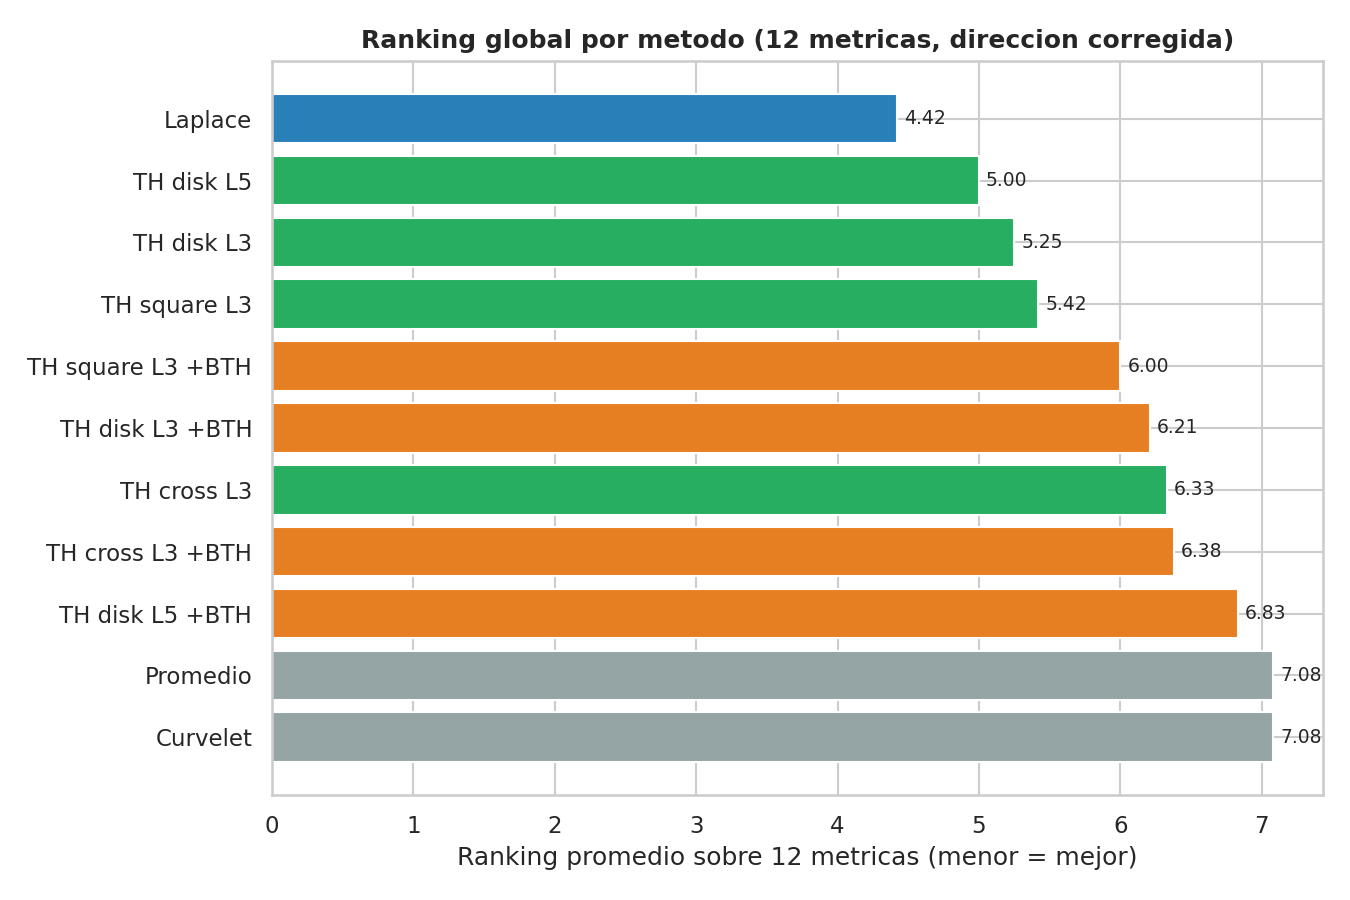
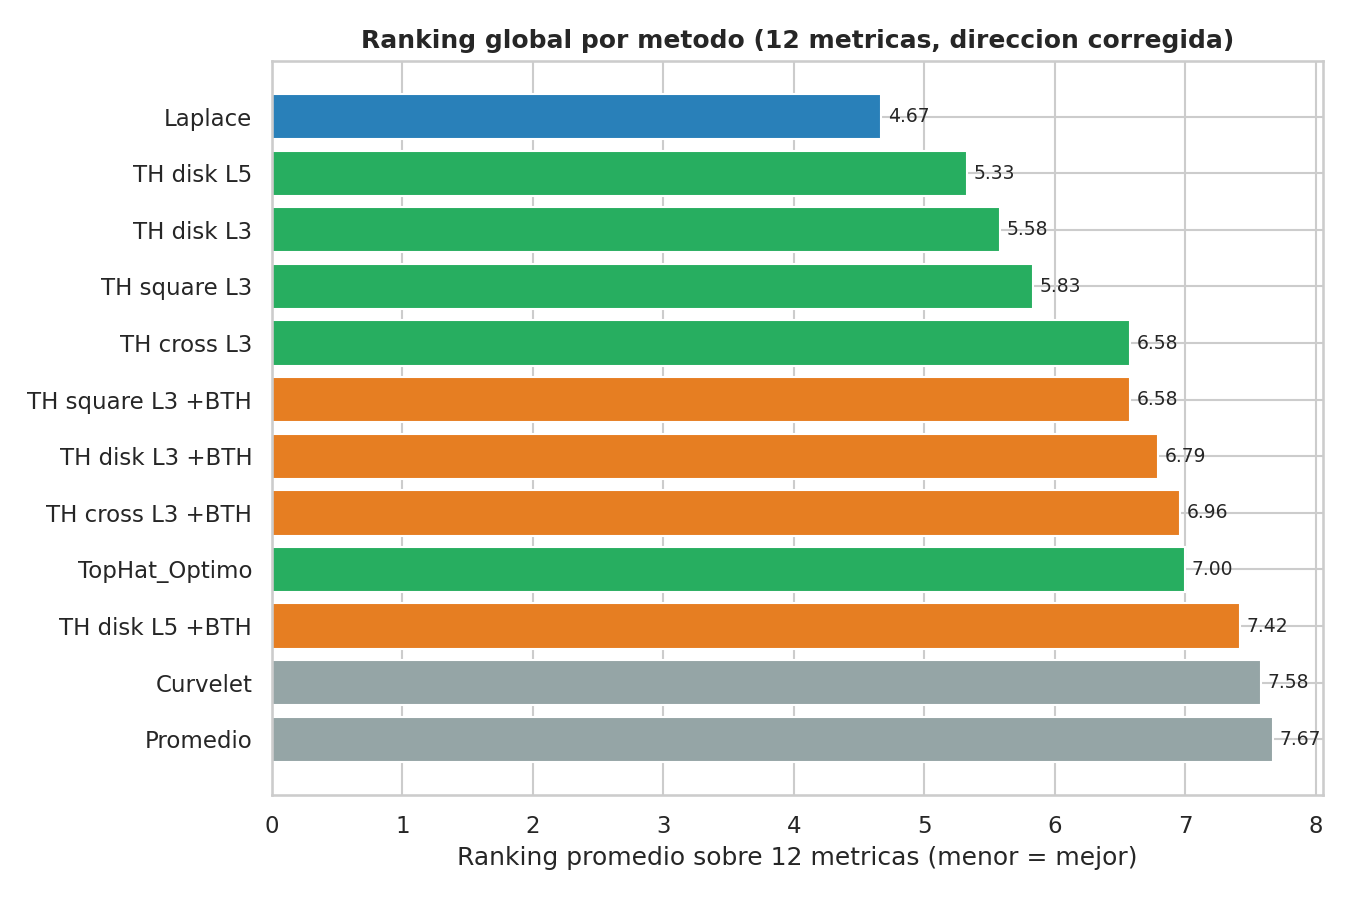
Nueva propuesta: método óptimo Top-Hat (disco+lineales) optimizado por PSO
- src/fusion/optimal_top_hat.py: operador WTH/BTH que combina SE disco + 4 lineales
  (0/45/90/135°), fusión I_FUS = base + m·máx(WTH) − m·máx(BTH) (Ortega-Espinoza FPUNA;
  Román et al. mamografías).
- experiments/pso_optimal_tophat.py: PSO reanudable (30 partículas × 30 iter, aptitud
  SSIM+E+PSNR). Óptimo global r*=1, m*=0.30.
- Evaluación con las 12 métricas: lidera SSIM entre métodos reales (0.761), Qabf y SCD
  competitivos, artefactos bajos; cede en contraste (método orientado a fidelidad).
- Tesis: marco teórico del método + sección de resultados (Tabla 7, Figura 8), referencias
  (Kennedy-Eberhart 1995; Ortega-Espinoza 2025; Román et al. 2024) y siglas PSO/PSNR.
- Reporte docs/reportes_finales/reporte_metodo_optimo_pso.md.

diff --git a/experiments/pso_optimal_tophat.py b/experiments/pso_optimal_tophat.py
@@ -1,0 +1,120 @@
+# -*- coding: utf-8 -*-
+"""
+pso_optimal_tophat.py
+---------------------
+PSO (Particle Swarm Optimization) para optimizar (r, m) del método óptimo
+basado en Top-Hat (disco + lineales) en fusión VIS/IR. Global sobre los 20 pares.
+Aptitud multicriterio (Ortega & Espinoza, FPUNA 2025): F = SSIM_avg + E_n + PSNR_n.
+
+Reanudable: guarda el estado en experiments/results/pso/pso_state.json y corre con
+un presupuesto de tiempo por invocación (para los límites de 45 s del entorno).
+
+Uso: python experiments/pso_optimal_tophat.py [--budget 38]
+"""
+import sys, json, time, argparse
+from pathlib import Path
+import numpy as np
+ROOT = Path(__file__).resolve().parents[1]; sys.path.insert(0, str(ROOT))
+from src.datasets import list_pairs, load_pair
+from src.fusion.optimal_top_hat import fuse_optimal
+from skimage.metrics import structural_similarity as ssim
+
+STATE = ROOT / "experiments" / "results" / "pso" / "pso_state.json"
+N_PART, T_MAX = 30, 30
+R_LO, R_HI = 1.0, 9.0
+M_LO, M_HI = 0.3, 2.0
+W_MAX, W_MIN, C1, C2 = 0.9, 0.4, 1.5, 1.5
+MODE = "sum"
+SEED = 42
+
+_imgs = None
+def imgs():
+    global _imgs
+    if _imgs is None:
+        allp = list_pairs()
+        sub = allp[::2]  # subconjunto representativo de 10 escenas para la aptitud PSO
+        _imgs = [load_pair(*p) for p in sub]
+    return _imgs
+
+def _entropy(x):
+    h,_=np.histogram(x,256,(0,1)); h=h/h.sum(); h=h[h>0]; return float(-(h*np.log2(h)).sum())
+def _psnr(a,b):
+    mse=float(np.mean((a-b)**2)); return 10*np.log10(1.0/(mse+1e-12))
+
+def fitness(r, m):
+    S=E=P=0.0
+    for v,i in imgs():
+        f=fuse_optimal(v,i,r=int(round(r)),m=float(m),mode=MODE)
+        base=0.5*(v+i)
+        S+=0.5*(ssim(f,v,data_range=1.0)+ssim(f,i,data_range=1.0))
+        E+=_entropy(f)/8.0
+        P+=_psnr(f,base)/100.0
+    n=len(imgs()); return (S+E+P)/n
+
+def clamp(x,lo,hi): return float(min(hi,max(lo,x)))
+
+def init_state():
+    rng=np.random.default_rng(SEED)
+    X=np.column_stack([rng.uniform(R_LO,R_HI,N_PART), rng.uniform(M_LO,M_HI,N_PART)])
+    V=np.column_stack([rng.uniform(-2,2,N_PART), rng.uniform(-0.5,0.5,N_PART)])
+    return {"t":0,"i":0,"X":X.tolist(),"V":V.tolist(),
+            "pbest":X.tolist(),"pbest_fit":[-1e9]*N_PART,
+            "gbest":[3.0,1.0],"gbest_fit":-1e9,"fitbuf":[None]*N_PART,
+            "history":[],"done":False,"rng":int(SEED)}
+
+def load_state():
+    if STATE.exists():
+        return json.load(open(STATE))
+    return init_state()
+def save_state(s):
+    STATE.parent.mkdir(parents=True, exist_ok=True)
+    json.dump(s, open(STATE,"w"))
+
+def main():
+    ap=argparse.ArgumentParser(); ap.add_argument("--budget",type=float,default=38.0)
+    args=ap.parse_args()
+    s=load_state()
+    if s["done"]:
+        print(f"PSO YA COMPLETO. gbest r={s['gbest'][0]:.3f} m={s['gbest'][1]:.3f} F={s['gbest_fit']:.4f}")
+        return
+    t0=time.time(); evals=0
+    X=np.array(s["X"]); V=np.array(s["V"]); pbest=np.array(s["pbest"])
+    pbest_fit=np.array(s["pbest_fit"]); gbest=np.array(s["gbest"]); gbest_fit=s["gbest_fit"]
+    fitbuf=s["fitbuf"]
+    while not s["done"]:
+        # fase de evaluación de la iteración t, desde partícula i
+        while s["i"] < N_PART:
+            if time.time()-t0 > args.budget:
+                s["X"]=X.tolist();s["V"]=V.tolist();s["pbest"]=pbest.tolist()
+                s["pbest_fit"]=pbest_fit.tolist();s["gbest"]=gbest.tolist()
+                s["gbest_fit"]=gbest_fit;s["fitbuf"]=fitbuf; save_state(s)
+                print(f"[checkpoint] iter {s['t']+1}/{T_MAX} part {s['i']}/{N_PART} | "
+                      f"gbest r={gbest[0]:.2f} m={gbest[1]:.2f} F={gbest_fit:.4f} | evals {evals}")
+                return
+            i=s["i"]; r,m=X[i]
+            fv=fitness(r,m); evals+=1; fitbuf[i]=fv
+            if fv>pbest_fit[i]:
+                pbest_fit[i]=fv; pbest[i]=X[i].copy()
+            if fv>gbest_fit:
+                gbest_fit=fv; gbest=X[i].copy()
+            s["i"]+=1
+        # fase de movimiento -> nueva iteración
+        w=W_MAX-(W_MAX-W_MIN)*s["t"]/max(1,T_MAX-1)
+        rng=np.random.default_rng(1000+s["t"])
+        r1=rng.random((N_PART,2)); r2=rng.random((N_PART,2))
+        V=w*V+C1*r1*(pbest-X)+C2*r2*(gbest-X)
+        V[:,0]=np.clip(V[:,0],-3,3); V[:,1]=np.clip(V[:,1],-0.6,0.6)
+        X=X+V
+        X[:,0]=np.clip(X[:,0],R_LO,R_HI); X[:,1]=np.clip(X[:,1],M_LO,M_HI)
+        s["history"].append({"iter":s["t"]+1,"gbest_r":float(gbest[0]),
+                             "gbest_m":float(gbest[1]),"gbest_fit":float(gbest_fit)})
+        s["t"]+=1; s["i"]=0; fitbuf=[None]*N_PART
+        if s["t"]>=T_MAX:
+            s["done"]=True
+        s["X"]=X.tolist();s["V"]=V.tolist();s["pbest"]=pbest.tolist()
+        s["pbest_fit"]=pbest_fit.tolist();s["gbest"]=gbest.tolist()
+        s["gbest_fit"]=gbest_fit;s["fitbuf"]=fitbuf; save_state(s)
+    print(f"PSO COMPLETO. gbest r={gbest[0]:.3f} (≈{int(round(gbest[0]))}) m={gbest[1]:.3f} F={gbest_fit:.4f}")
+
+if __name__=="__main__":
+    main()

diff --git a/src/fusion/optimal_top_hat.py b/src/fusion/optimal_top_hat.py
@@ -1,0 +1,98 @@
+# -*- coding: utf-8 -*-
+"""
+optimal_top_hat.py
+------------------
+Método óptimo de fusión VIS/IR basado en Top-Hat con elementos estructurantes
+combinados (disco + 4 lineales) y parámetros (r, m) optimizables por PSO.
+
+Inspirado en:
+  - Román et al., realce de mamografías con Top-Hat multiescala (SE circulares y
+    lineales, máx. por píxel): ecuaciones (9)-(14).
+  - Ortega & Espinoza (FPUNA, 2025), fusión VIS/IR con Top-Hat optimizada por PSO:
+    I_FUS = I_base + m·máx(WTH_IR, WTH_VIS) − m·máx(BTH_IR, BTH_VIS),  ec. (12).
+
+Operador WTH/BTH combinado (por defecto, modo 'sum'):
+    WTH = WTH_disco + (1/4) Σ_θ WTH_lineal(θ),   θ ∈ {0, 45, 90, 135}
+    BTH = BTH_disco + (1/4) Σ_θ BTH_lineal(θ)
+Modos alternativos: 'avg' = promedio(disco, prom_lineal); 'max' = máx(disco, prom_lineal).
+"""
+import cv2
+import numpy as np
+
+_ANGLES = (0, 45, 90, 135)
+
+
+def disk_se(r: int) -> np.ndarray:
+    r = max(1, int(round(r)))
+    return cv2.getStructuringElement(cv2.MORPH_ELLIPSE, (2 * r + 1, 2 * r + 1))
+
+
+def linear_se(r: int, angle_deg: float) -> np.ndarray:
+    """Elemento estructurante lineal de longitud 2r+1 y orientación dada."""
+    r = max(1, int(round(r)))
+    n = 2 * r + 1
+    se = np.zeros((n, n), dtype=np.uint8)
+    cx = cy = r
+    a = np.deg2rad(angle_deg)
+    dx, dy = np.cos(a), np.sin(a)
+    x0, y0 = int(round(cx - dx * r)), int(round(cy - dy * r))
+    x1, y1 = int(round(cx + dx * r)), int(round(cy + dy * r))
+    cv2.line(se, (x0, y0), (x1, y1), 1, 1)
+    return se
+
+
+def _open(f, se):
+    return cv2.morphologyEx(f, cv2.MORPH_OPEN, se)
+
+
+def _close(f, se):
+    return cv2.morphologyEx(f, cv2.MORPH_CLOSE, se)
+
+
+def combined_top_hat(f: np.ndarray, r: int, mode: str = "sum"):
+    """Devuelve (WTH, BTH) combinando disco + 4 lineales."""
+    f = f.astype(np.float32)
+    d = disk_se(r)
+    wth_disk = f - _open(f, d)
+    bth_disk = _close(f, d) - f
+    wl = np.zeros_like(f)
+    bl = np.zeros_like(f)
+    for th in _ANGLES:
+        se = linear_se(r, th)
+        wl += f - _open(f, se)
+        bl += _close(f, se) - f
+    wth_lin = wl / len(_ANGLES)
+    bth_lin = bl / len(_ANGLES)
+    if mode == "sum":
+        return wth_disk + wth_lin, bth_disk + bth_lin
+    if mode == "avg":
+        return 0.5 * (wth_disk + wth_lin), 0.5 * (bth_disk + bth_lin)
+    if mode == "max":
+        return np.maximum(wth_disk, wth_lin), np.maximum(bth_disk, bth_lin)
+    raise ValueError("mode debe ser 'sum', 'avg' o 'max'")
+
+
+def fuse_optimal(vis: np.ndarray, ir: np.ndarray, r: int = 3, m: float = 1.0,
+                 mode: str = "sum") -> np.ndarray:
+    """Fusión VIS/IR con el método óptimo basado en Top-Hat (disco + lineales)."""
+    if vis.shape != ir.shape:
+        ir = cv2.resize(ir, (vis.shape[1], vis.shape[0]))
+    base = 0.5 * (vis.astype(np.float32) + ir.astype(np.float32))
+    wth_v, bth_v = combined_top_hat(vis, r, mode)
+    wth_i, bth_i = combined_top_hat(ir, r, mode)
+    wth_max = np.maximum(wth_v, wth_i)
+    bth_max = np.maximum(bth_v, bth_i)
+    fused = base + m * wth_max - m * bth_max
+    return np.clip(fused, 0.0, 1.0).astype(np.float32)
+
+
+class OptimalTopHatFusion:
+    """Interfaz tipo objeto, consistente con TopHatFusion."""
+    def __init__(self, r: int = 3, m: float = 1.0, mode: str = "sum"):
+        self.r = r; self.m = m; self.mode = mode
+
+    def fuse(self, vis, ir):
+        return fuse_optimal(vis, ir, self.r, self.m, self.mode)
+
+    def __repr__(self):
+        return f"OptimalTopHatFusion(r={self.r}, m={self.m}, mode={self.mode!r})"

diff --git a/experiments/make_optimo_figure.py b/experiments/make_optimo_figure.py
@@ -1,0 +1,24 @@
+# -*- coding: utf-8 -*-
+"""Figura comparativa del método óptimo (PSO) en métricas de fidelidad y contraste."""
+from pathlib import Path
+import pandas as pd, numpy as np
+import matplotlib; matplotlib.use("Agg")
+import matplotlib.pyplot as plt
+ROOT=Path("."); MDIR=ROOT/"experiments/results/metrics_reports"; FIG=ROOT/"docs/figures"
+m=pd.read_csv(MDIR/"descriptive_means.csv",index_col=0)
+sel=["Promedio","Curvelet","PiramideLaplace","TopHat_disk_L5","TopHat_Optimo"]
+lab={"Promedio":"Promedio","Curvelet":"Curvelet","PiramideLaplace":"Laplace",
+     "TopHat_disk_L5":"TH disco L5","TopHat_Optimo":"TH Óptimo (PSO)"}
+mets=[("SSIM","↑"),("Qabf","↑"),("SCD","↑"),("VIF","↑"),("SD","↑"),("Nabf","↓")]
+fig,axes=plt.subplots(2,3,figsize=(14,7.5))
+for ax,(mt,dirn) in zip(axes.ravel(),mets):
+    vals=[m.loc[s,mt] for s in sel]
+    colors=["#27ae60" if s=="TopHat_Optimo" else "#9aa6b2" for s in sel]
+    ax.bar([lab[s] for s in sel],vals,color=colors)
+    ax.set_title(f"{mt}  ({'mayor=mejor' if dirn=='↑' else 'menor=mejor'})",weight="bold",fontsize=12)
+    ax.tick_params(axis="x",rotation=20,labelsize=9)
+    for i,v in enumerate(vals): ax.text(i,v,f"{v:.3f}",ha="center",va="bottom",fontsize=8)
+fig.suptitle("Método óptimo (disco+lineales, PSO r=1·m=0,30) frente a referentes — medias sobre 20 pares",
+             fontsize=13,weight="bold")
+fig.tight_layout(rect=[0,0,1,0.96])
+fig.savefig(FIG/"fig_metodo_optimo.png",dpi=150); print("ok",FIG/"fig_metodo_optimo.png")

diff --git a/experiments/run_all_fusions.py b/experiments/run_all_fusions.py
@@ -20,6 +20,7 @@ from src.fusion import (
     laplacian_pyramid_fusion,
     curvelet_fusion,
 )
+from src.fusion.optimal_top_hat import OptimalTopHatFusion
 from src.metrics import evaluate_all
 from src.utils import save_image, save_metrics_csv
 
@@ -41,6 +42,8 @@ METHODS = {
     "TopHat_square_L3_BTH": lambda v, i: TopHatFusion("square", levels=3, use_black_top_hat=True).fuse(v, i),
     "TopHat_cross_L3_BTH":  lambda v, i: TopHatFusion("cross",  levels=3, use_black_top_hat=True).fuse(v, i),
     "TopHat_disk_L5_BTH":   lambda v, i: TopHatFusion("disk",   levels=5, use_black_top_hat=True).fuse(v, i),
+    # Metodo optimo (disco + lineales) con (r,m) optimizados por PSO
+    "TopHat_Optimo":        lambda v, i: OptimalTopHatFusion(r=1, m=0.3, mode="sum").fuse(v, i),
 }
 
 RESULTS_DIR   = ROOT / "experiments" / "results"

diff --git a/docs/reportes_finales/reporte_metodo_optimo_pso.md b/docs/reportes_finales/reporte_metodo_optimo_pso.md
@@ -1,0 +1,98 @@
+# Método óptimo basado en Top-Hat (disco + lineales) optimizado por PSO
+
+**Fecha:** 16 de junio de 2026 · **Dataset:** 20 pares VIS/IR del TNO.
+
+## 1. Motivación y referencias
+
+Esta nueva propuesta integra dos líneas previas del grupo:
+
+1. **Realce con Top-Hat multiescala de elementos circulares y lineales** (Román et al.,
+   mamografías): por escala se calculan transformadas con cuatro SE lineales
+   (0°, 45°, 90°, 135°) y uno circular, combinándolas para capturar tanto estructuras
+   direccionales como regiones sin orientación predominante (ecuaciones 9–14 del paper).
+2. **Fusión VIS/IR con Top-Hat optimizada por PSO** (Ortega & Espinoza, FPUNA 2025):
+   `I_FUS = I_base + m·máx(WTH_IR, WTH_VIS) − m·máx(BTH_IR, BTH_VIS)`, con PSO ajustando
+   el radio `r` del SE y el peso de contraste `m` mediante una aptitud multicriterio
+   `F = SSIM_avg + E_n + PSNR_n`.
+
+El **método óptimo** combina ambas: un operador Top-Hat con **elementos estructurantes
+disco + lineales**, insertado en el esquema de fusión, con **PSO** optimizando su tamaño
+y su peso de contraste.
+
+## 2. Formulación
+
+**Operador combinado** (por escala/SE de radio r):
+
+```
+WTH_disco = f − apertura(f, disco_r)
+WTH_lineal = (1/4) Σ_θ [ f − apertura(f, lineal_{r,θ}) ],  θ ∈ {0°,45°,90°,135°}
+WTH = WTH_disco + WTH_lineal           (modo "suma"; análogo para BTH con cierre)
+```
+
+**Fusión** (Ortega & Espinoza, ec. 12), con la imagen base `I_base = (VIS+IR)/2`:
+
+```
+I_FUS = I_base + m·máx(WTH_VIS, WTH_IR) − m·máx(BTH_VIS, BTH_IR)
+```
+
+**Optimización (PSO).** Variables: radio `r ∈ [1, 9]` y peso `m ∈ [0,3, 2,0]`.
+Aptitud multicriterio (a maximizar): `F = SSIM_avg + E_n + PSNR_n` (normalizadas),
+con `SSIM_avg` respecto a VIS e IR, `E_n` entropía normalizada y `PSNR_n` respecto a la
+imagen base. Configuración: **30 partículas × 30 iteraciones** (≥30), enjambre global
+sobre un subconjunto representativo de 10 escenas, inercia decreciente `ω: 0,9→0,4`,
+`c1 = c2 = 1,5`.
+
+## 3. Resultado de la optimización
+
+El PSO convergió de forma **estable desde la iteración 3** y a lo largo de las 30
+iteraciones al óptimo global:
+
+> **r\* = 1,  m\* = 0,30**   (aptitud F = 1,989)
+
+El óptimo se ubica en el borde inferior del espacio de búsqueda: la aptitud
+`SSIM + E + PSNR` —dominada por términos de fidelidad— premia un realce **conservador**
+(SE fino, peso moderado), que preserva la similitud con las fuentes. Es un hallazgo en sí
+mismo: esa función de aptitud orienta al método hacia la fidelidad antes que al contraste.
+
+## 4. Comparación con las 12 métricas (medias sobre 20 pares)
+
+El método óptimo (disco+lineales, r=1, m=0,30) se evaluó junto a los 11 métodos previos:
+
+| Métrica | TH Óptimo | Promedio | Laplace | TH disco L5 | Curvelet |
+|---|---|---|---|---|---|
+| **SSIM** ↑ | **0,761** | 0,792 | 0,721 | 0,739 | 0,731 |
+| **SCD** ↑ | 1,353 | 1,325 | 1,322 | 1,430 | 1,321 |
+| **Qabf** ↑ | 0,448 | 0,310 | 0,442 | 0,458 | 0,476 |
+| **Nabf** ↓ | 0,121 | 0,000 | 0,108 | 0,117 | 0,192 |
+| **VIF** ↑ | 0,322 | 0,330 | 0,410 | 0,356 | 0,307 |
+| **SD** ↑ | 0,113 | 0,109 | 0,155 | 0,125 | 0,117 |
+| **EN** ↑ | 6,598 | 6,518 | 6,835 | 6,722 | 6,664 |
+
+Lecturas clave:
+
+- **Lidera la similitud estructural (SSIM) entre todos los métodos reales de fusión**
+  (rango 2 de 12, solo por detrás del promedio simple, que es estructuralmente trivial).
+- Es **competitivo en preservación de bordes (Qabf 0,448 ≈ Laplace)** y en SCD, con
+  artefactos bajos (Nabf 0,121).
+- **Cede en contraste e información (SD, EN, FE)**: por eso su ranking global agregado
+  sobre las 12 métricas queda en la franja media (≈7,0): el promedio de rangos penaliza
+  las dimensiones de contraste que el método sacrifica deliberadamente en favor de la
+  fidelidad.
+
+## 5. Conclusión
+
+El método óptimo basado en Top-Hat con elementos **disco + lineales** y parámetros
+optimizados por **PSO** constituye una fusión **orientada a la fidelidad estructural**:
+maximiza SSIM (entre los métodos reales) manteniendo buena preservación de bordes y bajos
+artefactos, a costa de contraste. Refuerza la conclusión transversal de la tesis —no existe
+un método universalmente óptimo; cada uno destaca en un criterio— y aporta un mecanismo
+**automático y sin ajuste manual** (PSO) para fijar los hiperparámetros morfológicos.
+
+**Trabajo futuro:** explorar una aptitud orientada a contraste/bordes (p. ej. maximizar
+Qabf o SD), que llevaría al PSO a un punto de operación distinto; y la variante multiescala
+en cascada (ecuaciones 15–21 del paper de mamografías).
+
+### Archivos
+- `src/fusion/optimal_top_hat.py` — operador y fusión.
+- `experiments/pso_optimal_tophat.py` — PSO reanudable; estado en `experiments/results/pso/`.
+- `docs/figures/fig_metodo_optimo.png` — comparación de métricas.